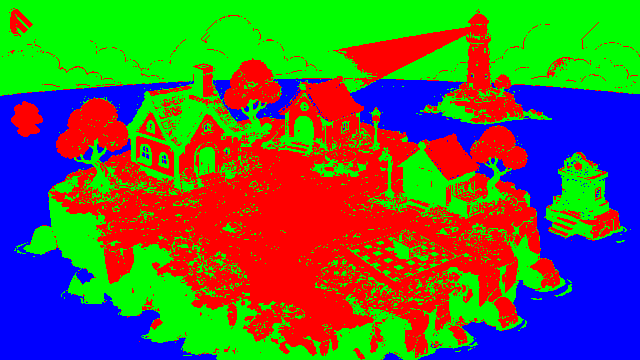
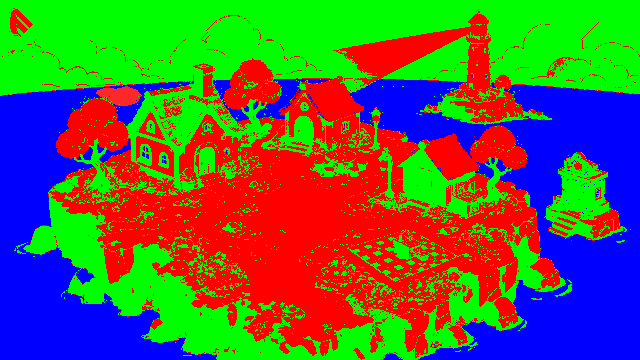
Give the library a rocky islet cutout and a larger book building.
The islet is its own transparent shore in the northwest water, with grass, cliffs, and foam, instead of a rectangle painted onto the plate. The library matches the arcade's size, and the exit toast only appears briefly after leaving the room.

Changed region(s): [[0.0, 0.275, 0.0625, 0.3972], [0.1562, 0.2444, 0.2188, 0.3056]]

diff --git a/src/core/Game.js b/src/core/Game.js
@@ -453,7 +453,7 @@ export class Game {
   _enterArcade() {
     if (this.ui.isIdeaOpen) this.ui.closeIdeas();
     if (this.studio.active) this._leaveStudio();
-    if (this.libraryRoom.active) this._leaveLibrary();
+    if (this.libraryRoom.active) this._leaveLibrary("switch");
     if (this.arcadeRoom.active) this._leaveArcade();
     this.ui.closeModals();
     this.ui.closeCollection();
@@ -500,13 +500,15 @@ export class Game {
     this.ui.toast("The library is quiet. Make a little story.", 2400);
   }
 
-  _leaveLibrary() {
+  _leaveLibrary(reason = "exit") {
     if (!this.libraryRoom.active && !this.ui.isLibraryOpen) return;
     this.libraryRoom.leave();
     this.ui.closeLibrary();
     this.renderer.setClearColor(0x000000, 0);
     this._frameCameraOnPibo();
-    this.ui.toast("Back outside the library", 2000);
+    // Only a real exit (the Exit button or Escape) says so, and only briefly.
+    // Closing the room to travel, or opening another place, stays quiet.
+    if (reason === "exit") this.ui.toast("Back outside the library", 1400);
   }
 
   _goToLighthouse() {
@@ -516,7 +518,7 @@ export class Game {
   _travelTo(pad, look, message) {
     if (this.ui.isIdeaOpen) this.ui.closeIdeas();
     if (this.studio.active) this._leaveStudio();
-    if (this.libraryRoom?.active) this._leaveLibrary();
+    if (this.libraryRoom?.active) this._leaveLibrary("switch");
     if (this.arcadeRoom?.active) this._leaveArcade();
     this.ui.closeModals();
     this.ui.closeCollection();

diff --git a/src/data/painted.js b/src/data/painted.js
@@ -225,22 +225,41 @@ export const PAINTED_SPRITES = [
     "opaqueRatio": 0.249
   },
   {
+    "id": "library-islet",
+    "src": "assets/painted/sprites/library-islet.png",
+    "pixelWidth": 103,
+    "pixelHeight": 51,
+    "width": 2.575,
+    "height": 1.275,
+    "anchor": {
+      "x": 0.5,
+      "y": 0.5
+    },
+    "footprint": {
+      "radius": 0.2
+    },
+    "x": -10.062,
+    "z": -4.162,
+    "depthBias": -1.6,
+    "opaqueRatio": 0.59
+  },
+  {
     "id": "library",
     "src": "assets/painted/sprites/library.png",
-    "pixelWidth": 96,
-    "pixelHeight": 128,
-    "width": 2.4,
-    "height": 3.2,
+    "pixelWidth": 150,
+    "pixelHeight": 134,
+    "width": 3.975,
+    "height": 3.5,
     "anchor": {
       "x": 0.5,
       "y": 0
     },
     "footprint": {
-      "radius": 0.7
+      "radius": 0.9
     },
-    "x": -14.62,
-    "z": -2.58,
-    "opaqueRatio": 0.56
+    "x": -10.55,
+    "z": -3.92,
+    "opaqueRatio": 0.71
   }
 ];
 
@@ -274,12 +293,12 @@ export const LAYOUT = {
     "z": 4.5
   },
   "library": {
-    "x": -14.62,
-    "z": -3.3
+    "x": -10.55,
+    "z": -4.7
   },
   "libraryDoor": {
-    "x": -14.62,
-    "z": -2.5
+    "x": -10.55,
+    "z": -4.12
   },
   "companion": {
     "x": -14,
@@ -296,4 +315,5 @@ export const PLACEMENTS = PAINTED_SPRITES.map((sprite) => ({
   asset: sprite.id,
   x: sprite.x,
   z: sprite.z,
+  depthBias: sprite.depthBias || 0,
 }));

diff --git a/src/data/assets.js b/src/data/assets.js
@@ -65,10 +65,13 @@ for (const sprite of PAINTED_SPRITES) {
   };
 }
 
-// Swappable library on the top-left islet. Replace the PNG; keep the pixel
-// size, or change width and height here. The bottom center is the doorstep.
+// Swappable library islet. The ground is its own transparent cutout, not painted
+// into the plate. The building's bottom center is the doorstep.
+ASSETS["library-islet"].note =
+  "Rocky islet under the library: grass top, cliff sides, white foam. Transparent around the shore. Swap assets/painted/sprites/library-islet.png.";
+ASSETS["library-islet"].slot = "library-islet";
 ASSETS.library.note =
-  "Cozy library building (book roof, door, stairs). Bottom center sits on the islet. Swap assets/painted/sprites/library.png.";
+  "Cozy library (book roof, door, stairs), about the same size as the arcade. Bottom center sits on the islet. Swap assets/painted/sprites/library.png.";
 ASSETS.library.slot = "library";
 
 export function collectSources(assets = ASSETS) {

diff --git a/src/world/SpriteSet.js b/src/world/SpriteSet.js
@@ -28,8 +28,8 @@ export class IsoSprite {
     this.group.add(this.mesh);
   }
 
-  place(x, z) {
-    placeOnPlate(this.group, x, z, 0);
+  place(x, z, bias = 0) {
+    placeOnPlate(this.group, x, z, bias);
   }
 
   setVisible(v) {
@@ -50,7 +50,7 @@ export class SpriteSet {
       if (!asset?.src || asset.width < 0.4) continue;
       const tex = textures.get(asset.src);
       const sprite = new IsoSprite(asset, tex);
-      sprite.place(place.x, place.z);
+      sprite.place(place.x, place.z, place.depthBias || 0);
       sprite.id = place.id;
       if (place.hidden) sprite.setVisible(false);
       this.group.add(sprite.group);

diff --git a/src/world/layout.js b/src/world/layout.js
@@ -38,12 +38,12 @@ const HOUSES = {
     [5.15, -1.6],
     [4.5, -0.45],
   ],
-  // Library walls on the top-left islet. The stairs and the path stay open.
+  // Library walls on the top-left islet. The stairs toward the sea stay open.
   library: [
-    [-15.42, -3.25],
-    [-13.72, -3.25],
-    [-13.65, -4.55],
-    [-15.5, -4.6],
+    [-11.30, -4.58],
+    [-9.80, -4.58],
+    [-9.75, -5.00],
+    [-11.35, -5.00],
   ],
 };
 

diff --git a/ASSETS.md b/ASSETS.md
@@ -29,7 +29,7 @@ The buttons (Go to lighthouse, Go to Arcade, Go to Library, Map) are HTML in `in
 
 ## Library islet
 
-The library is a small islet in the sea at the top-left, plus a building you can swap.
+The library is a small islet in the sea at the top-left, between the left edge and the red cottage, plus a building you can swap. Neither picture is painted into the plate.
 
-- **Land** is painted into `assets/painted/plate.png`. The walk mask has red on that islet and blue sea around it, so Pibo swims across.
-- **Building** is `assets/painted/sprites/library.png` (96 × 128). The bottom center is the doorstep. It is the `library` slot in `src/data/assets.js` (`ASSETS.library`). To use your own art, overwrite that PNG, or point `src` at a new file. If the new picture is a different size, change `width` and `height` on the slot. The wall collider lives in `src/world/layout.js` under `library`.
+- **Land** is `assets/painted/sprites/library-islet.png`. It is a transparent cutout: grass on top, rocky cliffs, white foam where it meets the water. The center of the picture sits on the sea. It is the `library-islet` slot in `src/data/assets.js`. The walk mask has red on that meadow and blue sea around it, so Pibo swims across.
+- **Building** is `assets/painted/sprites/library.png` (150 × 134), about the same size on screen as the arcade. The bottom center is the doorstep. It is the `library` slot (`ASSETS.library`). To use your own art, overwrite that PNG, or point `src` at a new file. If the new picture is a different size, change `width` and `height` on the slot. The wall collider lives in `src/world/layout.js` under `library`.
